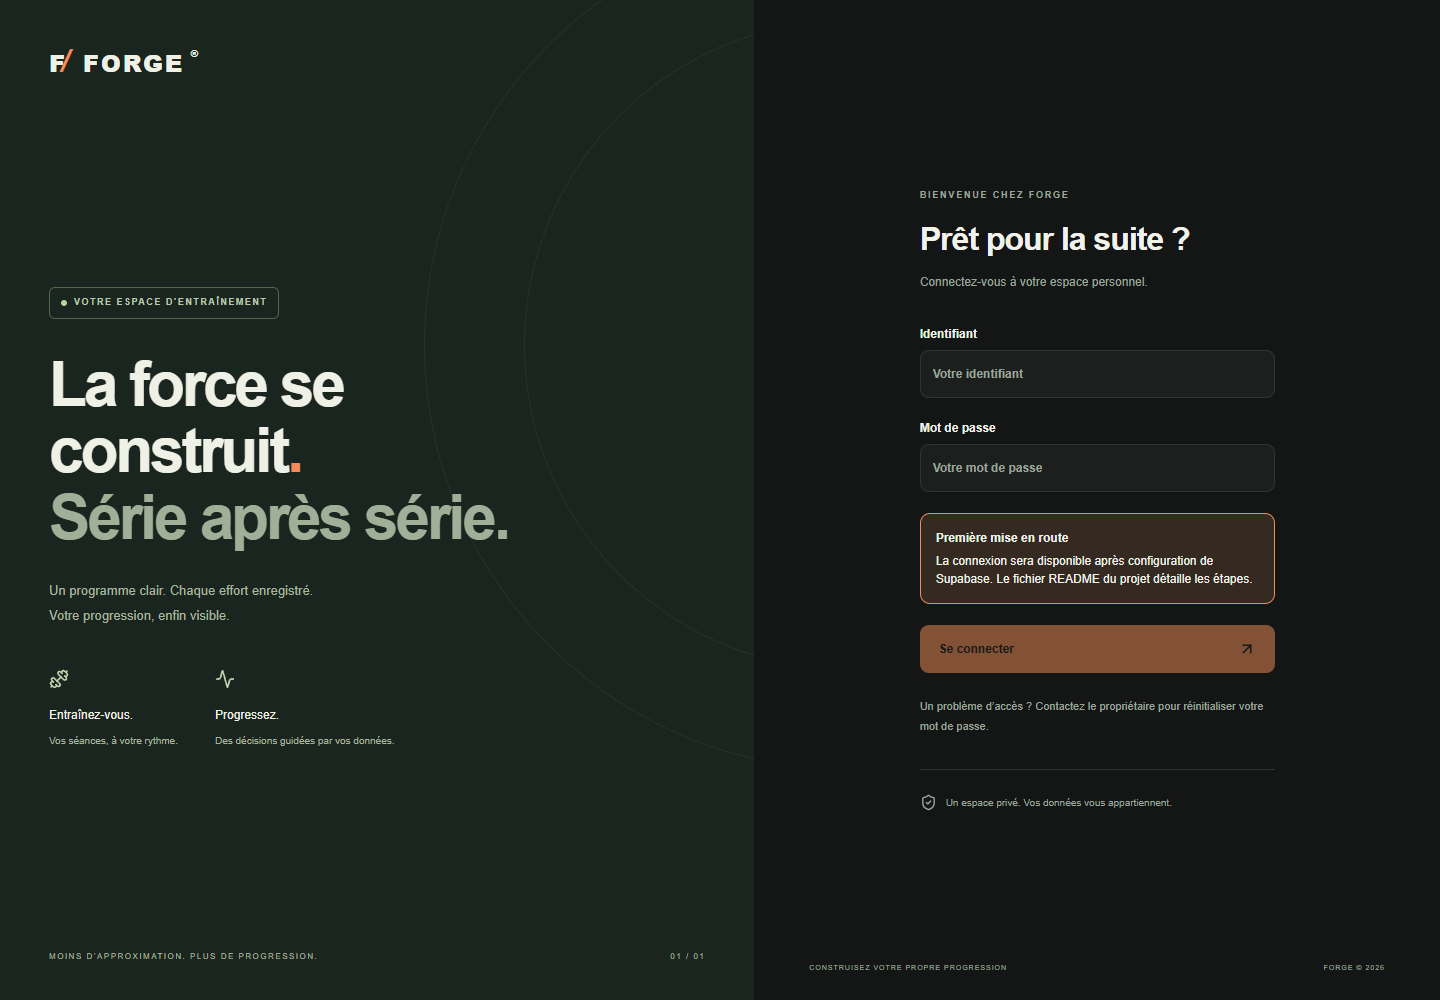
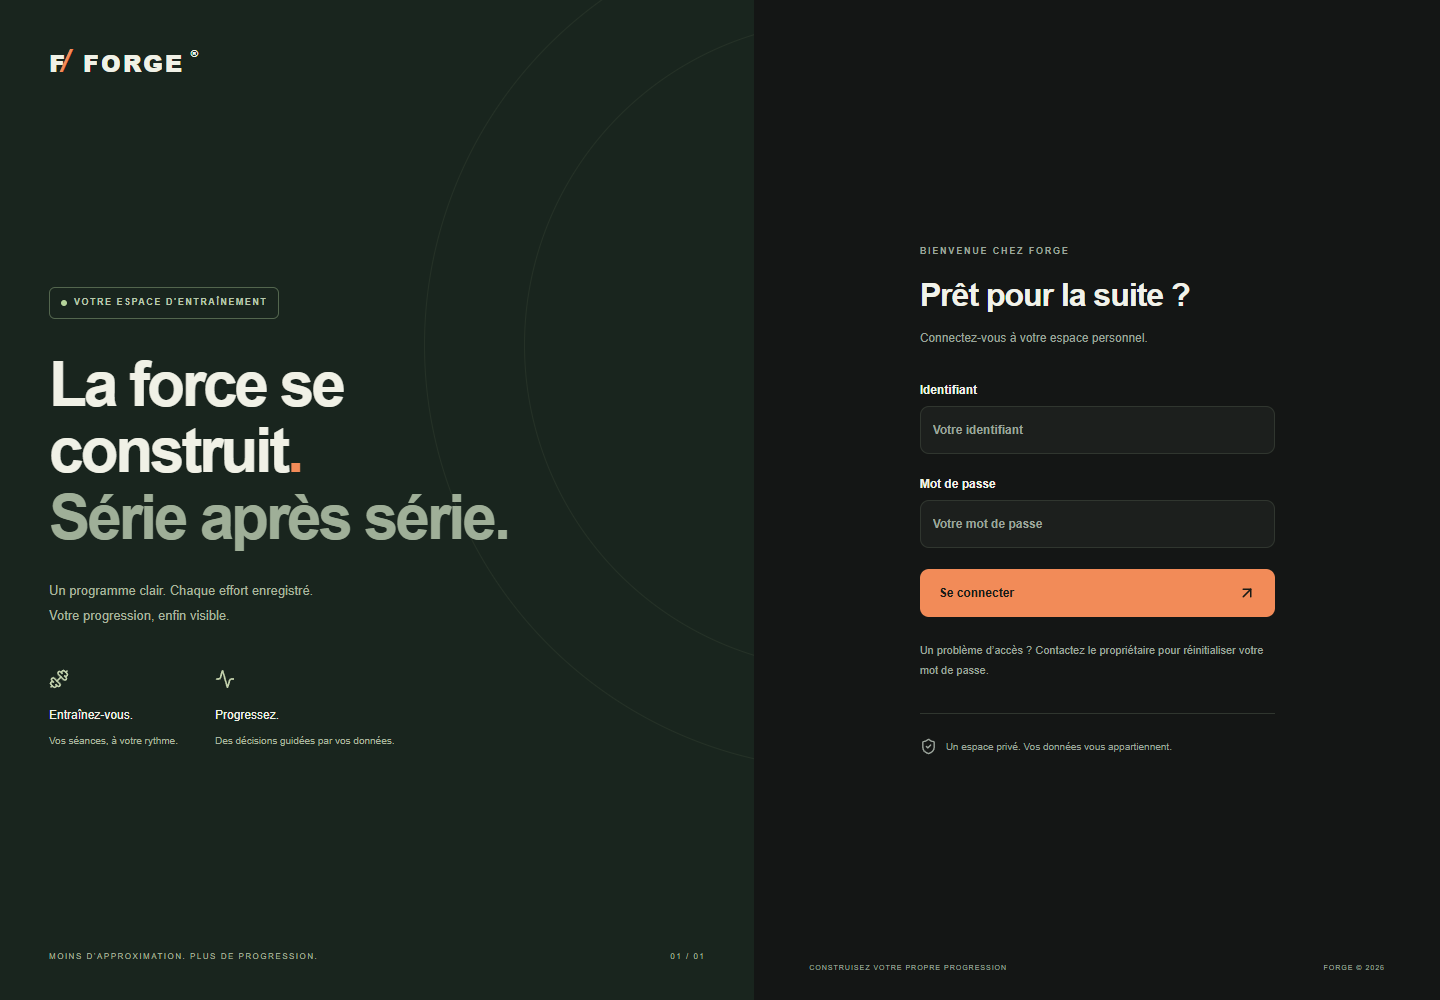
Document production provisioning and verify deployed FORGE

Changed region(s): [[0.625, 0.465, 0.9062, 0.806], [0.625, 0.186, 0.8438, 0.341], [0.625, 0.372, 0.7188, 0.434]]

diff --git a/README.md b/README.md
@@ -30,10 +30,10 @@ npm start
 ## Configurer Supabase
 
 1. Créer un **nouveau projet Supabase** et conserver son mot de passe de base hors du dépôt. Les ressources créées sur le compte sont décrites dans `docs/PROVISIONING.md`.
-2. Dans **Authentication → Sign In / Providers**, conserver le fournisseur email/mot de passe, désactiver **Allow new users to sign up**, les connexions anonymes et les fournisseurs non utilisés. Désactiver **Confirm email**. Les utilisateurs sont provisionnés exclusivement par l’API admin avec `email_confirm: true`, sans envoi de confirmation.
+2. Dans **Authentication → Sign In / Providers**, conserver le fournisseur email/mot de passe, désactiver **Allow new users to sign up**, les connexions anonymes et les fournisseurs non utilisés. **Confirm email** peut rester activé : les utilisateurs sont provisionnés exclusivement par l’API admin avec `email_confirm: true`, sans envoi de confirmation. C’est la configuration du projet hébergé FORGE.
 3. Définir une longueur minimale de mot de passe de 12 caractères. Conserver les protections Supabase contre les tentatives répétées. Le fichier `supabase/config.toml` applique ces réglages pour une stack locale. Il **ne configure pas automatiquement votre projet hébergé**.
 4. Configurer l’URL du site, d’abord `http://127.0.0.1:3000`, puis votre URL Vercel. Conserver des JWT courts (900 secondes dans la configuration locale). Désactiver les notifications email de changement de mot de passe si elles sont activées sur le projet : l’application n’utilise aucun flux email.
-5. Appliquer `supabase/migrations/20261016140915_initial_schema.sql` dans le SQL Editor du projet neuf, puis `supabase/seed.sql`. La migration s’applique une fois ; le seed peut être réexécuté sans doublons. Pour une gestion versionnée via la CLI, consulter `npx supabase link --help` puis `npx supabase db push --help` avant de lier et pousser vers le bon projet. Ne pas mélanger une application manuelle et la CLI sans réconcilier l’historique des migrations.
+5. Appliquer les fichiers de `supabase/migrations/` dans l’ordre de leur nom sur le projet neuf, puis `supabase/seed.sql`. Chaque migration s’applique une fois ; le seed peut être réexécuté sans doublons. Pour une gestion versionnée via la CLI, consulter `npx supabase link --help` puis `npx supabase db push --help` avant de lier et pousser vers le bon projet. Ne pas mélanger une application manuelle et la CLI sans réconcilier l’historique des migrations.
 6. Vérifier que le schéma `public` est exposé à la Data API. Les droits `GRANT` et toutes les politiques RLS sont dans la migration. Le schéma `private` ne doit jamais être ajouté aux schémas exposés.
 7. Remplir `.env.local` :
 
@@ -172,7 +172,7 @@ Les ressources distantes et l’état du déploiement sont consignés dans `docs
 
 ## Limites restantes
 
-- Le service Auth réel, les emails désactivés, la configuration Data API, la révocation de sessions, les diagnostics de sécurité Supabase et le parcours privé complet restent à vérifier sur votre projet configuré.
+- Le parcours privé complet avec une vraie session et la révocation de sessions restent à vérifier après la création des comptes. La configuration du projet hébergé et les contrôles effectués sont consignés dans `docs/PROVISIONING.md` et `docs/VERIFICATION.md`.
 - Les historiques sont paginés. Les statistiques et records chargent les séances nécessaires en lots, puis calculent côté navigateur. Pour des volumes très importants, déplacer les agrégats en SQL et ne retourner que les points des graphiques ; aucune limite arbitraire n’est appliquée aux records, mais le coût croît avec l’historique.
 - Le catalogue utilise des schémas anatomiques originaux comme illustrations de remplacement ; pas de photos/vidéos d’exécution ni de représentation détaillée de chaque mouvement. Pas de média tiers soumis à licence.
 - Pas de calendrier mensuel, de réseau social, de notifications, de chronomètre ni de synchronisation entre appareils sans connexion. Les fonctionnalités optionnelles de calendrier et médias pourront être ajoutées.

diff --git a/docs/VERIFICATION.md b/docs/VERIFICATION.md
@@ -19,17 +19,20 @@ L’application enregistre une séance depuis l’interface vers une route HTTP 
 | Inspection visuelle | Connexion ordinateur et téléphone inspectée | Captures dans `docs/previews/` ; les écrans privés n’ont pas été inspectés avec une vraie session |
 | Build Next.js production | Réussi avec Webpack | Compilation, types et génération des routes ; Turbopack a échoué sur un processus CSS Windows |
 | Audit npm | Aucune vulnérabilité signalée | Dépendances de production et de développement, audit exécuté en fin de vérification |
-| Déploiement Vercel | Non effectué | Projet, secrets et configuration externe non fournis |
+| Déploiement Vercel | **READY** | Production `https://forge-maelgibelot.vercel.app`, source `MaelGibelot/forge`, fonctions Paris |
+| Playwright production distante | **4 tests réussis** | Ordinateur et mobile, rendu sans erreur console/JavaScript, aucune inscription, pages et API privées protégées |
+| Backend production distante | Réussi pour les contrôles sans session | API privée 401, connexion inconnue 401 via fonctions serveur Supabase, origine étrangère 403 |
+| Supabase hébergé | Migrations et seed appliqués | 62 exercices, 10 groupes musculaires, RLS sur les 16 tables publiques, diagnostics sans avertissement de sécurité/performance après indexation |
 
 La stack Supabase complète n’a pas été lancée localement : Docker n’était pas disponible. PGlite exécute la migration et les politiques dans un moteur PostgreSQL embarqué ; les tables et fonctions minimales du schéma Auth sont préparées par les tests. Ce contrôle ne prouve pas le fonctionnement de Supabase Auth, de son service HTTP ni de PostgREST.
 
 ## Parcours encore à vérifier sur le service réel
 
-1. Appliquer la migration et le seed au bon projet ; vérifier les droits Data API et lancer les diagnostics de sécurité Supabase.
-2. Désactiver les inscriptions et les flux email dans la configuration hébergée.
+1. Réalisé : migrations et seed appliqués au projet `egzytutkpnkdyafgdsrv`, diagnostics Supabase exécutés. Les deux tables privées sans politique cliente et les index encore inutilisés sont des informations attendues.
+2. Réalisé : inscriptions publiques et anonymes désactivées, fournisseur email/mot de passe conservé, minimum de 12 caractères. Les comptes admin seront directement confirmés sans envoi d’email ; aucun compte n’a encore été créé.
 3. Créer deux comptes avec le script admin ; vérifier la connexion par identifiant et la persistance après reconnexion.
 4. Activer les tests Playwright privés sur un projet de test. Ils couvrent programme, exercices, superset, saisie RPE/RIR/repos, brouillon, rechargement, finalisation, historique, graphique, records, correction d’une ancienne séance, thème et isolation entre comptes.
 5. Vérifier changement de mot de passe, réinitialisation propriétaire, suppression réelle du compte et révocation de sessions.
-6. Déployer avec les variables de l’environnement Vercel puis contrôler l’origine exacte, HTTPS, les cookies et les tentatives de connexion.
+6. Réalisé pour HTTPS, l’origine exacte, le déploiement et le rejet d’identifiants inconnus ; les cookies d’une vraie session et la limitation après tentatives répétées restent à vérifier avec les comptes de test.
 
 Les tests ignorés ne sont pas comptés comme réussis. Aucune connexion, donnée distante ou publication n’est présentée comme validée sans preuve.

diff --git a/docs/PROVISIONING.md b/docs/PROVISIONING.md
@@ -5,9 +5,17 @@
 - Schéma initial appliqué ; 62 exercices et 10 groupes musculaires installés ; RLS activée sur les 16 tables publiques.
 - Index de production ajoutés après les diagnostics : aucune clé étrangère non indexée restante. Les index encore inutilisés sont attendus sur une base neuve.
 - Vercel : projet `forge-training`, équipe `maelgibelot's projects`, ID `prj_yxhD75Uv1cEODVWCL68MIFqzIkwc`. Framework Next.js, Node.js 24, fonctions à Paris.
-- GitHub : compte connecté au connecteur `MaelGibelot`. Aucun dépôt créé : cette opération n’est pas exposée par le connecteur disponible et la CLI n’est pas authentifiée.
+- GitHub : dépôt public [MaelGibelot/forge](https://github.com/MaelGibelot/forge), code publié sur `main`. GitHub CLI a été autorisé explicitement par le propriétaire ; aucun fichier d’environnement ni secret n’est publié.
 
-Le projet Vercel n’est pas déployé et ne possède pas encore de connexion Git. L’URL et la clé publique Supabase sont configurées dans Vercel. Les secrets et la configuration Auth restent nécessaires avant la mise en service. Aucun compte utilisateur d’application n’a été créé.
+L’application est déployée en production à [forge-maelgibelot.vercel.app](https://forge-maelgibelot.vercel.app). Le premier déploiement `dpl_CqdZxTU2iQTC8kaqJXvP1hUaXMR6`, issu du commit `61c4112`, a atteint l’état `READY`, sans erreur d’alias. Le dépôt est raccordé à Vercel pour les prochains déploiements depuis `main`.
+
+Les six variables de `.env.example` sont configurées pour la production. `SUPABASE_SECRET_KEY` (clé serveur Supabase) et `LOGIN_RATE_SECRET` (48 octets aléatoires) sont enregistrées comme secrets Vercel non révélables. La copie de la clé serveur vers ce projet Vercel a été explicitement autorisée. Aucun secret serveur n’a été écrit dans le dépôt ou dans un fichier d’environnement local. Les environnements Preview et Development ne disposent pas de ces secrets de production.
+
+Supabase Auth : email/mot de passe activé, inscription publique, comptes anonymes et fournisseurs sociaux désactivés ; longueur minimale de mot de passe de 12 caractères. La confirmation email globale reste activée ; le script admin crée directement des comptes confirmés avec `email_confirm: true`, sans envoi d’email. L’URL du site est `https://forge-maelgibelot.vercel.app`.
+
+Aucun compte utilisateur d’application n’a été créé. La création du premier compte avec son identifiant et son mot de passe reste nécessaire avant d’accéder aux écrans privés. La procédure propriétaire est décrite dans le README.
+
+Contrôles sur l’URL publique : 4 tests Playwright réussis sur ordinateur et mobile, page de connexion configurée, redirection des pages privées, API sans session en 401, identifiant inconnu en 401 après accès serveur à Supabase, origine étrangère en 403. Les captures dans `docs/previews/` proviennent de ce déploiement.
 
 Les tables `private.login_identities` et `private.login_attempts` n’ont intentionnellement aucune politique autorisant les clients : elles sont réservées aux fonctions serveur. Les diagnostics de sécurité ne les signalent qu’au niveau informatif ; ne pas ajouter de politique ouverte pour masquer ce signal.
 
